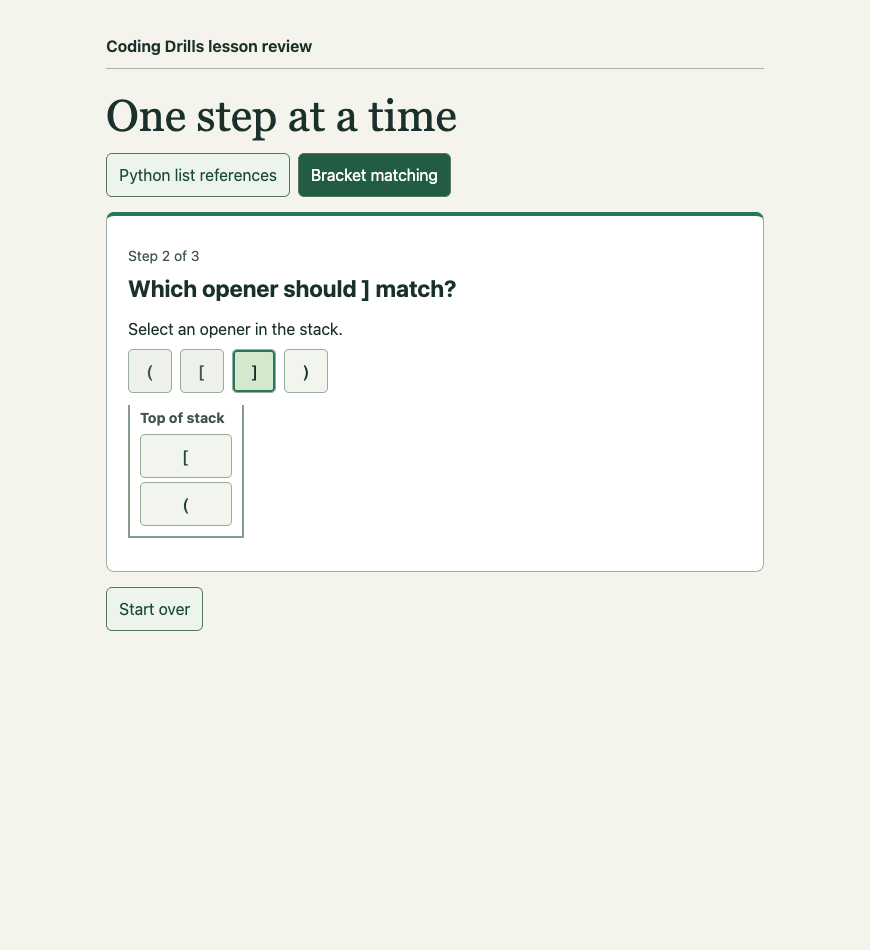
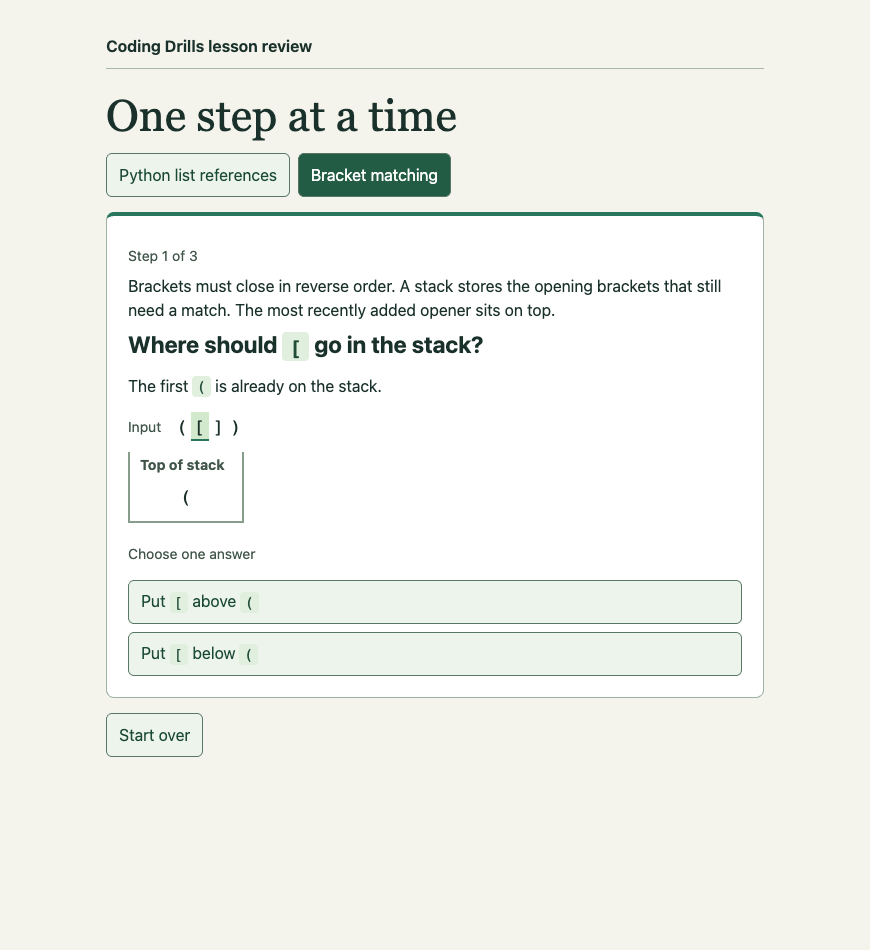
fix: distinguish lesson answers from read-only examples

Changed region(s): [[0.1241, 0.2442, 0.8379, 0.7021], [0.1241, 0.7632, 0.2172, 0.7937]]

diff --git a/docs/prototypes/learning-harness/guided-scenarios.html b/docs/prototypes/learning-harness/guided-scenarios.html
@@ -18,29 +18,32 @@ button:focus-visible { outline: 3px solid #246f9c; outline-offset: 2px; }
 button[aria-pressed=true] { background: #225c45; color: #fff; }
 nav, .actions, .tokens { display: flex; flex-wrap: wrap; gap: 8px; align-items: center; }
 article { background: white; border: 1px solid #9fb3a4; border-top: 4px solid #28775c; border-radius: 8px; margin: 15px 0; padding: clamp(13px, 3vw, 21px); }
-code, .code, .slot, .bracket, .name { font-family: ui-monospace, "SFMono-Regular", monospace; }
+code, .code, .slot, .bracket { font-family: ui-monospace, "SFMono-Regular", monospace; }
 code.inline-code { color: #214d39; background: #e1efde; border-radius: 4px; padding: .08em .28em; white-space: nowrap; }
 .code { display: grid; gap: 2px; background: #f4f7f0; padding: 9px 8px; margin: 12px 0; border-radius: 5px; font-size: .9rem; }
 .code code { display: block; padding: 3px 8px; }
 .code .current { background: #e1efde; border-left: 3px solid #28775c; padding-left: 5px; }
 .objects { display: grid; grid-template-columns: repeat(auto-fit, minmax(min(100%, 168px),1fr)); gap: 10px; margin: 14px 0; }
 .object { border: 1px solid #a5b7aa; border-radius: 8px; padding: 10px; min-width: 0; }
-.object.ghost { border-style: dashed; background: #fafbf7; }
 .object strong { display: block; font-size: .89rem; }
-.names, .values { display: flex; gap: 5px; flex-wrap: wrap; margin: 7px 0; align-items: center; }
+.list-value { display: block; margin-top: 7px; font-size: 1.02rem; }
+.values { display: flex; gap: 8px; flex-wrap: wrap; margin: 7px 0; align-items: center; }
 .object button, .stack button { padding: 4px 8px; }
-.slot, .bracket, .name { display: inline-grid; place-items: center; min-width: 44px; min-height: 44px; border: 1px solid #99ad9e; border-radius: 5px; padding: 3px 5px; background: #f2f5ee; }
-.name { min-width: 28px; min-height: 26px; border: none; background: #dcebd8; }
-button.name { min-height: 44px; min-width: 44px; background: #edf4eb; border: 1px solid #587767; }
-.name.selected, .slot.selected, .bracket.current { background: #d2e9ce; box-shadow: inset 0 0 0 2px #28775c; }
-.bracket.done { background: #eef1eb; color: #41564a; }
+.slot, .bracket { display: inline-grid; place-items: center; min-width: 44px; min-height: 44px; border: 1px solid #99ad9e; border-radius: 5px; padding: 3px 5px; background: #f2f5ee; }
 .bracket { font-size: 1.23rem; }
+.input-line { display: flex; align-items: baseline; gap: 12px; margin: 12px 0; }
+.input-brackets { font-size: 1.23rem; }
+.input-brackets span { padding: 2px 3px; }
+.input-brackets .current { background: #d2e9ce; border-bottom: 2px solid #28775c; }
 .stack { display: grid; gap: 4px; width: max-content; min-width: 116px; padding: 0 10px 10px; margin: 12px 0; border: solid #879d8b; border-width: 0 2px 2px; }
 .stack .caption { margin: 2px 0; }
+.stack-entry { text-align: center; font-size: 1.23rem; }
 .caption { color: #41564a; font-size: .88rem; }
 .feedback { min-height: 1.4em; margin-top: 12px; color: #274c39; }
 .feedback:empty { margin: 0; min-height: 0; }
 .actions { margin-top: 12px; }
+.choices { display: grid; gap: 8px; }
+.choices button { text-align: left; }
 footer { margin-top: 12px; }
 </style>
 </head>
@@ -105,34 +108,29 @@ function code(lines, active=-1){
   if(i===active)row.setAttribute("aria-current","step");
  }
 }
-function listItem(board, names, values, {onSlot, onName, changed, movedName, ghost}={}){
- const list=add("div","",board,ghost?"object ghost":"object");
- const title=add("strong",names.length?"List ":ghost?"Separate copy":"New list",list);
- if(names.length)add("code",names[0],title,"inline-code");
- const nameRow=add("div","",list,"names");
- if(names.length===0)add("span","No name points here yet",nameRow,"caption");
- for(const name of names){
-  if(onName){
-   button(name,()=>onName(name),nameRow,{labelForReader:"Move "+name+" to the new list",className:"name"});
-  }else{
-   add("code",name,nameRow,name===movedName?"name selected":"name");
-  }
+function listItem(board, label, values, onSlot){
+ const list=add("div","",board,"object");
+ writeCopy(add("strong","",list),label);
+ if(!onSlot){
+  add("code","["+values.join(", ")+"]",list,"list-value");
+  return;
  }
  const valueRow=add("div","",list,"values");
  for(const [i,value] of values.entries()){
-  if(onSlot){
-   button(value,()=>onSlot(i),valueRow,{labelForReader:"Index "+i+", value "+value,className:"slot"});
-  }else{
-   add("code",value,valueRow,i===changed?"slot selected":"slot");
-  }
+  button(value,()=>onSlot(i),valueRow,{labelForReader:"Index "+i+", value "+value,className:"slot"});
  }
- return list;
+}
+function answerChoices(options){
+ const group=add("div","",lesson,"choices");
+ group.setAttribute("role","group");
+ group.setAttribute("aria-label","Choose one answer");
+ add("p","Choose one answer",group,"caption");
+ for(const [label, action] of options)button(label,action,group);
 }
 
 const listCode=["a = [4, 7]", "b = a", "b[0] = 9", "b = [6, 8]"];
 function lists(){
- if(step===0)writeCopy(add("p",""),"The first line creates list `a` with the values 4 and 7.");
- const headings=["Which list should `b` point to?","Which cell gets the 9?","Which name moves to the new list?"];
+ const headings=["After `b = a`, what does `b` refer to?","Which value does `b[0] = 9` replace?","Which name should point to the new list?"];
  const summaries=["Both names now point to the same list.","The first cell changed to 9.","The name `b` now points to the new list."];
  if(step===3){
   const h=prompt(completed?"`x[0]` is 1":"What does the new example print?");
@@ -149,40 +147,48 @@ function lists(){
  }
  const h=prompt(completed?summaries[step]:headings[step]);
  code(listCode.slice(0,step+2),step+1);
+ if(step===0&&!completed){
+  answerChoices([
+   ["The same list as `a`",()=>coach(true,"`b` and `a` now refer to the same list.")],
+   ["A separate copy of list `a`",()=>coach(false,"`b = a` assigns the same list to `b`. Creating a copy would take a separate operation.")]
+  ]);
+  return h;
+ }
  const board=add("div","",lesson,"objects");
  const applied=step+Number(completed);
- const names=applied===0||applied===3?["a"]:["a","b"];
+ const label=applied===3?"List `a`":"List referenced by `a` and `b`";
  const values=applied<2?["4","7"]:["9","7"];
- const first=listItem(board,names,values,{
-  changed:step===1&&completed?0:undefined,
-  movedName:step===0&&completed?"b":undefined,
-  onSlot:step===1&&!completed?index=>coach(index===0,index===0
+ listItem(board,label,values,step===1&&!completed?index=>coach(index===0,index===0
    ?"`b[0]` changes the existing list. `a` reads the same 9."
-   :"The number in brackets selects an index. Index 0 is the first cell."):null,
-  onName:step===2&&!completed?name=>coach(name==="b",name==="b"
-   ?"The assignment changes where `b` points. `a` still points to its original list."
-   :"The left side of the assignment is `b`. `a` still points to its original list."):null
- });
- if(step===0&&!completed){
-  button("Point `b` here",()=>coach(true,"`b = a` makes `b` point to the list `a` already names."),first,{labelForReader:"Point b to list a"});
-  const copy=listItem(board,[],["4","7"],{ghost:true});
-  button("Point `b` here",()=>coach(false,"`b = a` has no copy operation. Use the existing list."),copy,{labelForReader:"Point b to a separate copy"});
+   :"The number in brackets selects an index. Index 0 is the first cell."):null);
+ if(step===2){
+  listItem(board,completed?"List `b`":"New list",["6","8"]);
+  if(!completed)answerChoices([
+   ["Move `a` to the new list",()=>coach(false,"The left side of the assignment is `b`. `a` still points to its original list.")],
+   ["Move `b` to the new list",()=>coach(true,"The assignment changes where `b` points. `a` still points to its original list.")]
+  ]);
  }
- if(step===2)listItem(board,completed?["b"]:[],["6","8"],{movedName:"b"});
  return h;
 }
 
 const guidedBrackets=["(","[","]",")"];
 function bracketRow(characters, opts={}){
- const row=add("div","",lesson,"tokens");
- for(const [i,char] of characters.entries()){
-  const label="Character "+(i+1)+", "+char;
-  if(opts.pick){
-   button(char,()=>opts.pick(i),row,{labelForReader:label,className:"bracket"});
-  }else{
-   const box=add("code",char,row,i===opts.active?"bracket current":i<opts.active?"bracket done":"bracket");
+ if(!opts.pick){
+  const row=add("div","",lesson,"input-line");
+  add("span","Input",row,"caption");
+  const line=add("code","",row,"input-brackets");
+  for(const [i,char] of characters.entries()){
+   const box=add("span",char,line,i===opts.active?"current":"");
    if(i===opts.active)box.setAttribute("aria-current","step");
   }
+  return;
+ }
+ const row=add("div","",lesson,"tokens");
+ row.setAttribute("role","group");
+ row.setAttribute("aria-label","Choose the first mismatched character");
+ for(const [i,char] of characters.entries()){
+  const label="Character "+(i+1)+", "+char;
+  button(char,()=>opts.pick(i),row,{labelForReader:label,className:"bracket"});
  }
 }
 function stackLesson(){
@@ -198,10 +204,10 @@ function stackLesson(){
   }
   return h;
  }
- const headers=["Where does [ go on the stack?","Which opener should ] match?","Which opener should ) match?"];
- const after=["[ is now on top", "The square brackets are paired", "The stack is empty"];
+ const headers=["Where should `[` go in the stack?","Which opener in the stack matches `]`?","Which opener in the stack matches `)`?"];
+ const after=["`[` is now on top", "The square brackets are paired", "The stack is empty"];
  const h=prompt(completed?after[step]:headers[step]);
- if(!completed)add("p",step===0?"The first ( is already on the stack.":"Select an opener in the stack.");
+ if(!completed)writeCopy(add("p",""),step===0?"The first `(` is already on the stack.":"Select one opener in the stack.");
  bracketRow(guidedBrackets,{active:step+1});
  const stack=add("div","",lesson,"stack");
  add("strong","Top of stack",stack,"caption");
@@ -213,13 +219,14 @@ function stackLesson(){
     ?step===1?"The top opener is [. It matches ], so remove it.":"The top opener is (. It matches ), so remove it."
     :"] has to match the most recent opener. Compare it with the bracket on top."),
     stack,{labelForReader:index===0?"Top opener "+item:"Earlier opener "+item,className:"bracket"});
-  }else add("code",item,stack,"bracket");
+  }else add("code",item,stack,"stack-entry");
  }
  if(items.length===0)add("p","Empty",stack,"caption");
  if(step===0&&!completed){
-  const actions=add("div","",lesson,"actions");
-  button("Put [ on top",()=>coach(true,"The newest opener goes above the earlier one."),actions);
-  button("Put [ below (",()=>coach(false,"The stack puts the newest opener on top."),actions);
+  answerChoices([
+   ["Put `[` above `(`",()=>coach(true,"The newest opener goes above the earlier one.")],
+   ["Put `[` below `(`",()=>coach(false,"The stack puts the newest opener on top.")]
+  ]);
  }
  return h;
 }
